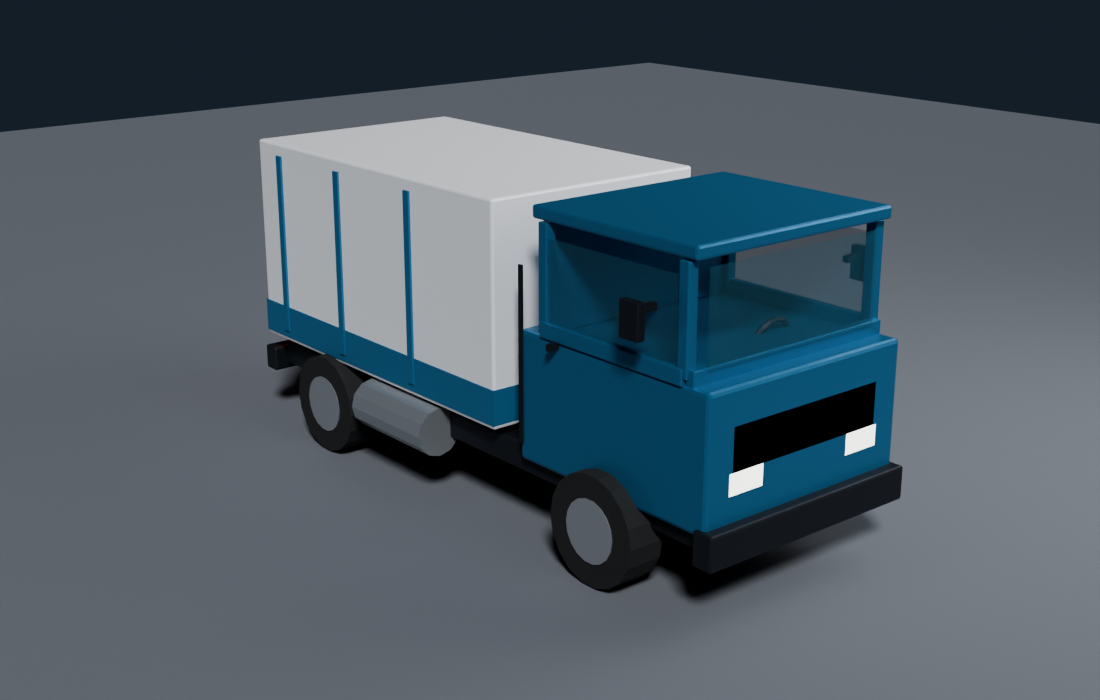
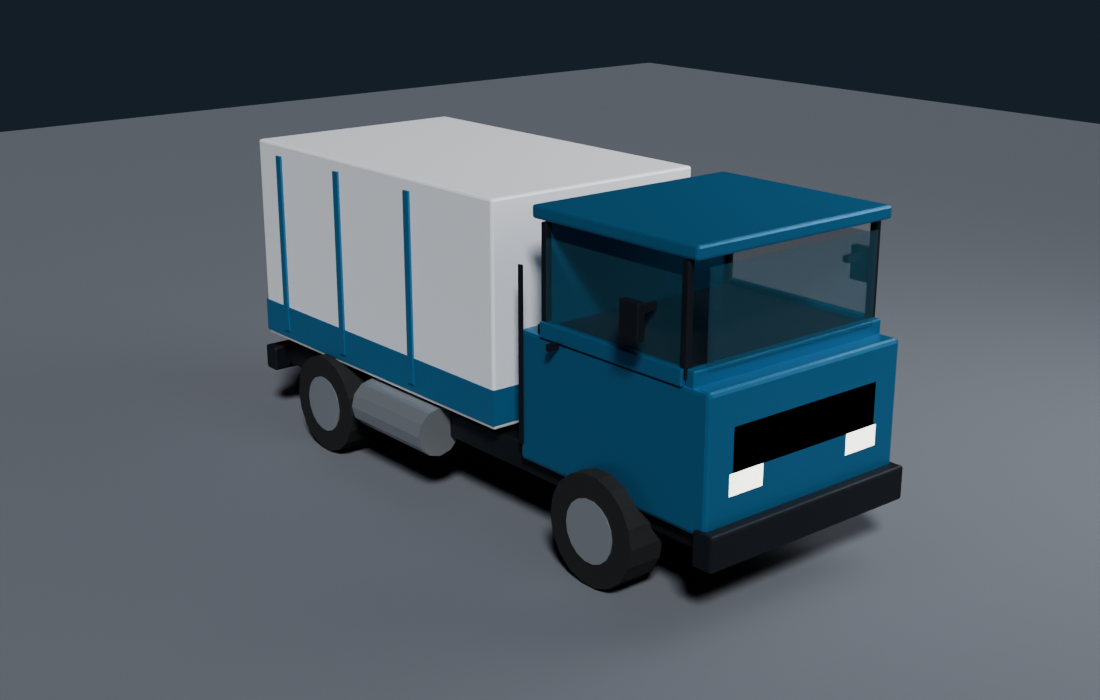
fix: 驾驶 HUD 与卡车内饰质感
- 方向盘改为完整圆形 HUD，居中并抬高，不再被屏幕裁切
- 深灰仪表台替代亮蓝色底部，加入实时数字速度表
- 速度表随车辆速度更新，方向盘随左右转向旋转
- 移除左下角重复操作提示，仅保留中央黑底提示
- 卡车 A/B 柱改为深色细框，并增加深色仪表台顶面

Changed region(s): [[0.5564, 0.36, 0.7727, 0.54], [0.4636, 0.33, 0.5564, 0.48], [0.7727, 0.3, 0.8036, 0.45]]

diff --git a/index.html b/index.html
@@ -95,6 +95,7 @@
     pointer-events: none;
   }
   .hint {
+    display: none;
     font-size: 12px;
     letter-spacing: .12em;
     color: var(--muted);
@@ -106,6 +107,7 @@
   .meta {
     text-align: right;
     white-space: nowrap;
+    margin-left: auto;
     font-size: 9px;
     line-height: 2;
     letter-spacing: .22em;
@@ -268,8 +270,7 @@
     opacity: 1;
     visibility: visible;
     transform: translateX(-50%) translateY(0);
-  }
-  .interact-prompt kbd {
+  }  .interact-prompt kbd {
     display: inline-flex;
     align-items: center;
     justify-content: center;
@@ -282,6 +283,101 @@
     font-family: inherit;
     font-size: 11px;
     color: var(--cyan);
+  }
+
+  /* driving HUD: dark dashboard, speed readout and steering wheel */
+  .drive-hud {
+    position: fixed;
+    left: 0;
+    right: 0;
+    bottom: 0;
+    z-index: 2;
+    height: 260px;
+    pointer-events: none;
+    opacity: 0;
+    visibility: hidden;
+    transition: opacity .25s ease, visibility .25s;
+    background: linear-gradient(180deg,
+      rgba(6, 8, 10, 0) 0%,
+      rgba(7, 9, 11, .72) 22%,
+      #080a0c 46%,
+      #040506 100%);
+  }
+  .drive-hud::before {
+    content: "";
+    position: absolute;
+    top: 0;
+    left: 0;
+    right: 0;
+    height: 1px;
+    background: linear-gradient(90deg, transparent, rgba(90, 209, 255, .35), transparent);
+  }
+  body.driving .drive-hud {
+    opacity: 1;
+    visibility: visible;
+  }
+  body.driving .crosshair {
+    opacity: 0;
+  }
+  body.driving .interact-prompt {
+    bottom: 282px;
+  }
+
+  .speed-panel {
+    position: absolute;
+    top: 12px;
+    left: 50%;
+    transform: translateX(-50%);
+    text-align: center;
+    text-shadow: 0 0 18px rgba(90, 209, 255, 0.25);
+  }
+  .speed-label {
+    font-size: 9px;
+    letter-spacing: .36em;
+    color: #6f818f;
+    text-transform: uppercase;
+  }
+  .speed-readout {
+    display: flex;
+    align-items: baseline;
+    justify-content: center;
+    gap: 8px;
+    margin-top: 1px;
+    font-family: "Bahnschrift", "DIN Alternate", "Segoe UI", sans-serif;
+  }
+  #speedValue {
+    font-size: 44px;
+    line-height: 1;
+    font-weight: 600;
+    letter-spacing: .02em;
+    color: #e8f7ff;
+    font-variant-numeric: tabular-nums;
+  }
+  .speed-unit {
+    font-size: 10px;
+    letter-spacing: .16em;
+    color: #6f8a9c;
+  }
+
+  .steering-wrap {
+    position: absolute;
+    left: 50%;
+    bottom: 10px;
+    width: 176px;
+    height: 176px;
+    transform: translateX(-50%);
+  }
+  .steering-wheel {
+    width: 100%;
+    height: 100%;
+    transform-origin: 50% 50%;
+    will-change: transform;
+    filter: drop-shadow(0 12px 26px rgba(0, 0, 0, 0.65));
+  }
+  .steering-wheel svg {
+    display: block;
+    width: 100%;
+    height: 100%;
   }
 
   #loading {
@@ -355,6 +451,45 @@
   </div>
 
   <div class="vignette"></div>
+
+  <div id="driveHud" class="drive-hud" aria-hidden="true">
+    <div class="speed-panel">
+      <div class="speed-label">速度</div>
+      <div class="speed-readout">
+        <span id="speedValue">0</span>
+        <span class="speed-unit">km/h</span>
+      </div>
+    </div>
+
+    <div class="steering-wrap">
+      <div id="steeringWheel" class="steering-wheel">
+        <svg viewBox="0 0 200 200" aria-hidden="true">
+          <defs>
+            <radialGradient id="wheelRim" cx="50%" cy="35%" r="72%">
+              <stop offset="0" stop-color="#4a515a"/>
+              <stop offset="0.55" stop-color="#292e34"/>
+              <stop offset="1" stop-color="#111417"/>
+            </radialGradient>
+            <radialGradient id="wheelHub" cx="45%" cy="35%" r="70%">
+              <stop offset="0" stop-color="#434a53"/>
+              <stop offset="1" stop-color="#171b1f"/>
+            </radialGradient>
+          </defs>
+          <circle cx="100" cy="100" r="84" fill="none" stroke="#0a0c0e" stroke-width="24" opacity=".7"/>
+          <circle cx="100" cy="100" r="84" fill="none" stroke="url(#wheelRim)" stroke-width="20"/>
+          <circle cx="100" cy="100" r="73" fill="none" stroke="#59626c" stroke-width="1.2" opacity=".45"/>
+          <g fill="#24292f" stroke="#4b535d" stroke-width="1.5">
+            <rect x="92" y="21" width="16" height="66" rx="7"/>
+            <rect x="92" y="21" width="16" height="66" rx="7" transform="rotate(120 100 100)"/>
+            <rect x="92" y="21" width="16" height="66" rx="7" transform="rotate(240 100 100)"/>
+          </g>
+          <circle cx="100" cy="100" r="14" fill="url(#wheelHub)" stroke="#555e68" stroke-width="2"/>
+          <circle cx="100" cy="100" r="4.5" fill="#5ad1ff" opacity=".75"/>
+          <circle cx="100" cy="16" r="3.5" fill="#5ad1ff" opacity=".9"/>
+        </svg>
+      </div>
+    </div>
+  </div>
 
   <script>
     window.__ready = false;
@@ -461,6 +596,9 @@
     const interactText = document.getElementById('interactText');
     const footerHint = document.getElementById('footerHint');
     const statusLabel = document.getElementById('statusLabel');
+    const speedValue = document.getElementById('speedValue');
+    const steeringWheel = document.getElementById('steeringWheel');
+    let steeringVisual = 0;
     const WALK_HINT = footerHint.innerHTML;
     const DRIVE_HINT = '<b>↑ ↓</b> 加速/倒车 &nbsp;·&nbsp; <b>← →</b> 转向 &nbsp;·&nbsp; <b>E</b> 下车';
 
@@ -1415,6 +1553,10 @@
 
       footerHint.innerHTML = DRIVE_HINT;
       statusLabel.textContent = 'DRIVING';
+      document.body.classList.add('driving');
+      speedValue.textContent = '0';
+      steeringVisual = 0;
+      steeringWheel.style.transform = 'rotate(0deg)';
       promptMode = '';
       updateInteractPrompt();
     }
@@ -1449,6 +1591,10 @@
       nearestTruck = null;
       footerHint.innerHTML = WALK_HINT;
       statusLabel.textContent = 'FIRST PERSON';
+      document.body.classList.remove('driving');
+      speedValue.textContent = '0';
+      steeringVisual = 0;
+      steeringWheel.style.transform = 'rotate(0deg)';
       promptMode = '';
       updateInteractPrompt();
     }
@@ -1505,6 +1651,14 @@
       for (const wheel of truck.wheels) {
         wheel.rotation.x -= truck.speed * dt / 0.42;
       }
+
+      const kmh = Math.round(Math.abs(truck.speed) * 3.6);
+      if (speedValue.textContent !== String(kmh)) {
+        speedValue.textContent = String(kmh);
+      }
+
+      steeringVisual = THREE.MathUtils.damp(steeringVisual, steer * 110, 9, dt);
+      steeringWheel.style.transform = `rotate(${steeringVisual.toFixed(1)}deg)`;
     }
 
     /* ------------------------------------------------------------------ */

diff --git a/blender/build_truck.py b/blender/build_truck.py
@@ -169,11 +169,12 @@ def main():
     box("CabRearWall", (1.8, 0.08, 0.8), (0, 1.02, 2.05), paint, 0.01)
     box("CabRoof", (1.9, 1.62, 0.10), (0, 1.75, 2.53), paint, 0.02)
     box("CabFrontSill", (1.86, 0.08, 0.12), (0, 2.50, 1.70), paint, 0.01)
+    box("DashTop", (1.86, 1.5, 0.08), (0, 1.72, 1.68), dark, 0.015)
 
     for sx in (-1, 1):
         box("CabSideSill", (0.07, 1.42, 0.12), (sx * 0.93, 1.75, 1.70), paint, 0.01)
-        box("CabPillarFront", (0.09, 0.09, 0.78), (sx * 0.91, 2.45, 2.08), paint, 0.01)
-        box("CabPillarRear", (0.09, 0.09, 0.78), (sx * 0.91, 1.06, 2.08), paint, 0.01)
+        box("CabPillarFront", (0.055, 0.055, 0.78), (sx * 0.915, 2.45, 2.08), dark, 0.008)
+        box("CabPillarRear", (0.055, 0.055, 0.78), (sx * 0.915, 1.06, 2.08), dark, 0.008)
 
     # Glass: windshield, side windows. They sit in the open cab frame.
     box("Windshield", (1.62, 0.025, 0.68), (0, 2.545, 2.08), glass)
@@ -210,20 +211,8 @@ def main():
         box("DoorHandle", (0.16, 0.035, 0.05), (sx * 0.96, 1.22, 1.62), dark)
         box("DoorSeam", (0.015, 0.04, 1.35), (sx * 0.955, 0.82, 1.45), dark)
 
-    # Interior dashboard and steering wheel (visible from cab camera).
+    # Interior dashboard (the in-game HUD carries the steering wheel and speed).
     box("Dashboard", (1.72, 0.42, 0.17), (0, 2.22, 1.55), dark, 0.02)
-    bpy.ops.mesh.primitive_torus_add(
-        major_radius=0.18,
-        minor_radius=0.025,
-        major_segments=16,
-        minor_segments=6,
-        location=(-0.42, 1.95, 1.56),
-        rotation=(math.radians(70), 0, 0),
-    )
-    steering = bpy.context.active_object
-    steering.name = "SteeringWheel"
-    steering.data.materials.append(dark)
-    OBJECTS.append(steering)
 
     # Wheels.
     wheel("Wheel_FL", -0.93, 1.72, 0.42, tire, rim)

diff --git a/README.md b/README.md
@@ -4,9 +4,9 @@
 
 ![港区与卡车](preview.png)
 
-驾驶视角（车窗透明，可清楚观察路面）：
+驾驶 HUD（完整方向盘 + 数字速度表，车窗透明）：
 
-![驾驶视角](preview-cab.png)
+![驾驶 HUD](preview-cab.png)
 
 ## 场景内容
 
@@ -18,7 +18,9 @@
 - **3 辆 Blender 轻卡**停在主通道上
   - 靠近时按 **E** 上车，按 **E** 下车
   - 驾驶时 **↑ / ↓** 加速、倒车，**← / →** 转向
-  - 驾驶舱为真实开放式框架，挡风玻璃和侧窗透明，可清楚观察路面；内有仪表台和方向盘
+  - 驾驶舱为开放式框架，挡风玻璃和侧窗透明，A 柱改为深色细框
+  - 驾驶 HUD：深灰仪表台、完整圆形方向盘（会随转向旋转）、实时数字速度表
+  - 只保留屏幕中央的黑底操作提示，移除了左下角重复文字
 - 远海新增一艘**缓慢横向航行的集装箱船**（约 1.1 m/s）
 - 岸桥、停靠的集装箱船、海水、系缆桩、锦州港大门
 - 第一人称 PointerLockControls 环视
@@ -33,7 +35,9 @@
 - `blender/build_container_lod.py` — 低模 LOD 集装箱，用于扩展区
 - `blender/build_truck.py` — 轻型厢式卡车
   - 开放式驾驶舱框架，挡风玻璃 + 侧窗透明玻璃
-  - 4 个独立车轮节点、后视镜、灯组、货箱、仪表台、方向盘
+  - 深色细 A/B 柱、深灰仪表台，避免遮挡视线
+  - 4 个独立车轮节点、后视镜、灯组、货箱
+  - 方向盘和速度表由游戏内 HUD 渲染，避免被屏幕裁切
 
 输出：
 
